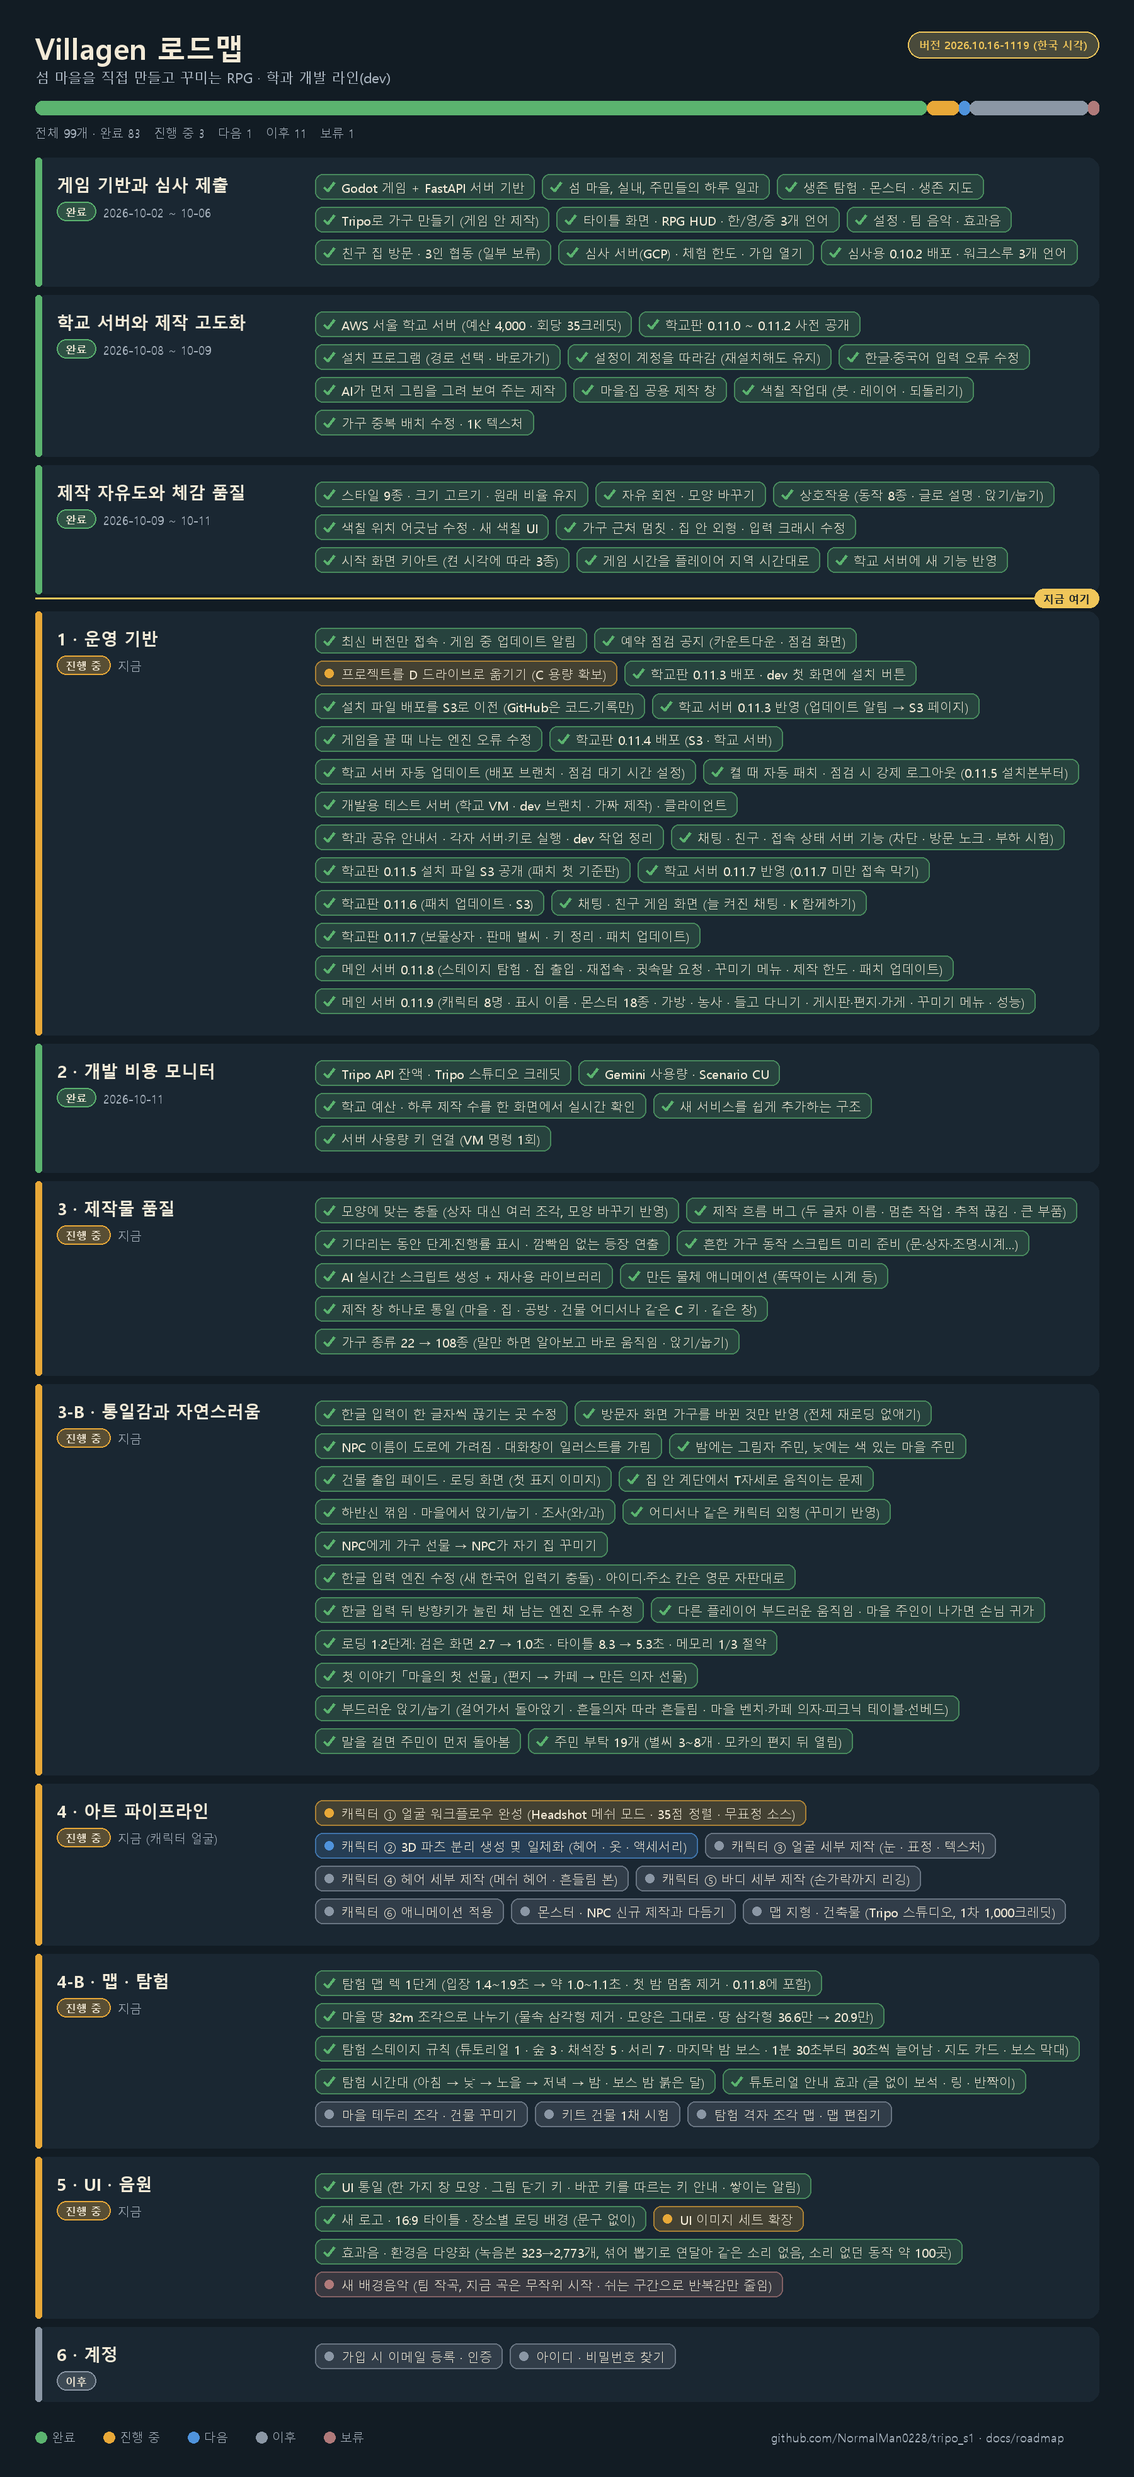
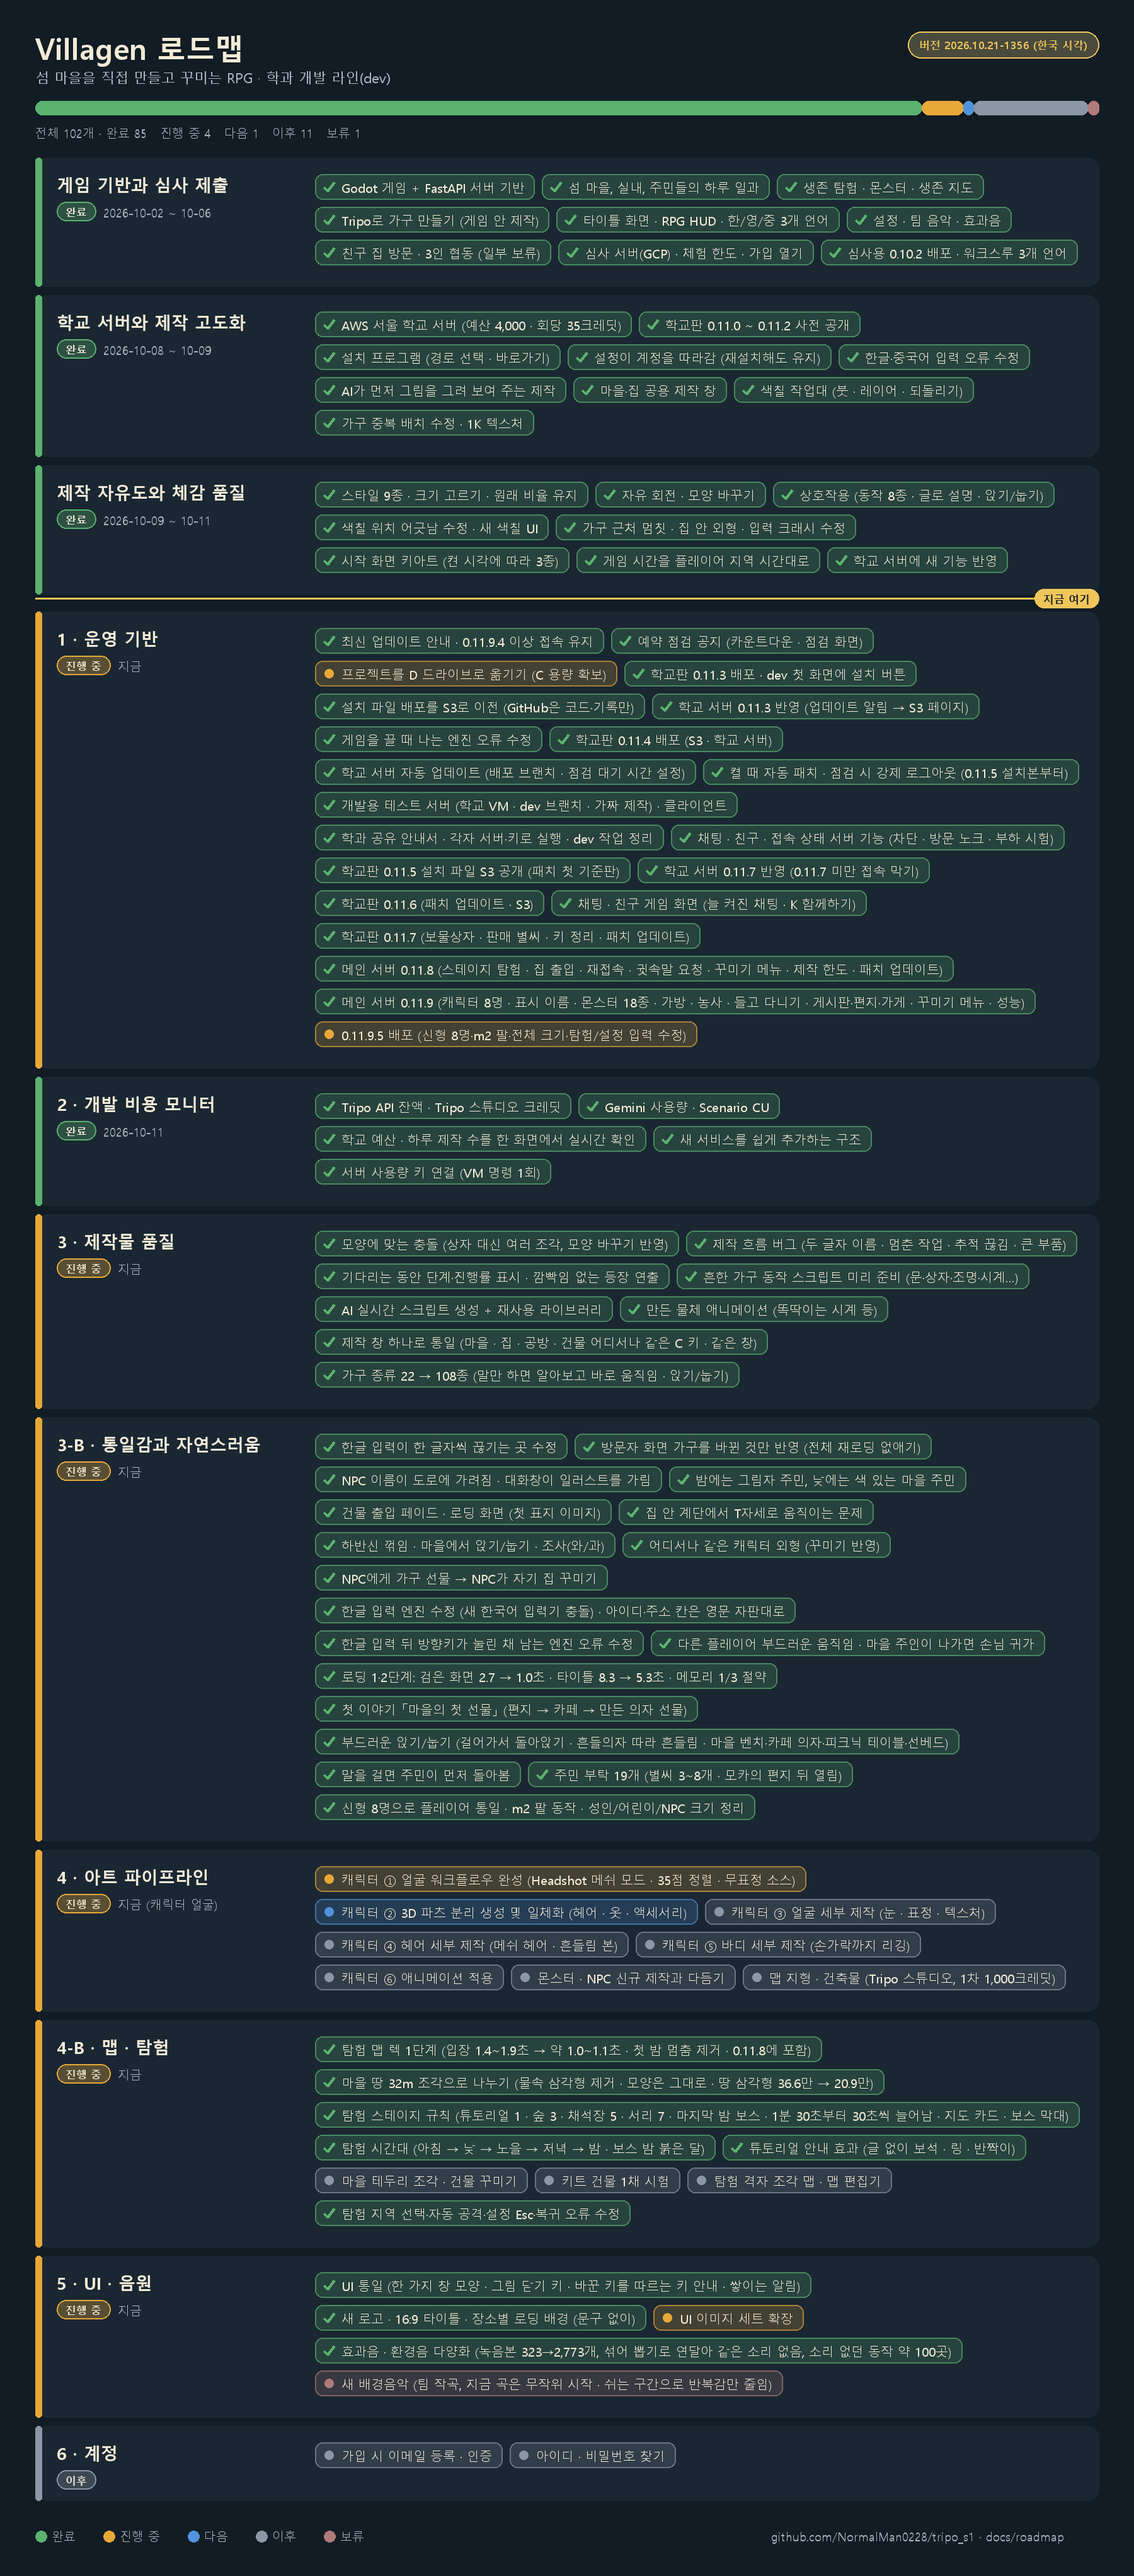
Prepare public 0.11.9.5 release notes and roadmap

diff --git a/docs/roadmap/ROADMAP_KO.md b/docs/roadmap/ROADMAP_KO.md
@@ -1,8 +1,8 @@
 # Villagen 로드맵
 
-**버전 2026.10.16-1119** (한국 시각) · 섬 마을을 직접 만들고 꾸미는 RPG · 학과 개발 라인(dev)
+**버전 2026.10.21-1356** (한국 시각) · 섬 마을을 직접 만들고 꾸미는 RPG · 학과 개발 라인(dev)
 
-> 그림으로 보기: [VISUAL_KO.md](VISUAL_KO.md) · 전체 99개 중 완료 83 · 진행 중 3 · 다음 1 · 이후 11 · 보류 1
+> 그림으로 보기: [VISUAL_KO.md](VISUAL_KO.md) · 전체 102개 중 완료 85 · 진행 중 4 · 다음 1 · 이후 11 · 보류 1
 
 - [학교 서버 운영 안내](../SCHOOL_SERVER_KO.txt)
 - [제작 품질표](../CRAFT_QUALITY_KO.md)
@@ -44,7 +44,7 @@
 
 ## 1 · 운영 기반  `진행 중` · 지금
 
-- [x] 최신 버전만 접속 · 게임 중 업데이트 알림 (10-11)
+- [x] 최신 업데이트 안내 · 0.11.9.4 이상 접속 유지 (10-11)
 - [x] 예약 점검 공지 (카운트다운 · 점검 화면) (10-11)
 - [ ] 프로젝트를 D 드라이브로 옮기기 (C 용량 확보) · *진행 중*
 - [x] 학교판 0.11.3 배포 · dev 첫 화면에 설치 버튼 (10-12)
@@ -64,6 +64,7 @@
 - [x] 학교판 0.11.7 (보물상자 · 판매 별씨 · 키 정리 · 패치 업데이트) (10-15)
 - [x] 메인 서버 0.11.8 (스테이지 탐험 · 집 출입 · 재접속 · 귓속말 요청 · 꾸미기 메뉴 · 제작 한도 · 패치 업데이트) (10-16)
 - [x] 메인 서버 0.11.9 (캐릭터 8명 · 표시 이름 · 몬스터 18종 · 가방 · 농사 · 들고 다니기 · 게시판·편지·가게 · 꾸미기 메뉴 · 성능) (10-16)
+- [ ] 0.11.9.5 배포 (신형 8명·m2 팔·전체 크기·탐험/설정 입력 수정) (10-21) · *진행 중*
 
 ## 2 · 개발 비용 모니터  `완료` · 2026-10-11
 
@@ -103,6 +104,7 @@
 - [x] 부드러운 앉기/눕기 (걸어가서 돌아앉기 · 흔들의자 따라 흔들림 · 마을 벤치·카페 의자·피크닉 테이블·선베드) (10-15)
 - [x] 말을 걸면 주민이 먼저 돌아봄 (10-15)
 - [x] 주민 부탁 19개 (별씨 3~8개 · 모카의 편지 뒤 열림) (10-15)
+- [x] 신형 8명으로 플레이어 통일 · m2 팔 동작 · 성인/어린이/NPC 크기 정리 (10-21)
 
 ## 4 · 아트 파이프라인  `진행 중` · 지금 (캐릭터 얼굴)
 
@@ -125,6 +127,7 @@
 - [ ] 마을 테두리 조각 · 건물 꾸미기 · *이후*
 - [ ] 키트 건물 1채 시험 · *이후*
 - [ ] 탐험 격자 조각 맵 · 맵 편집기 · *이후*
+- [x] 탐험 지역 선택·자동 공격·설정 Esc·복귀 오류 수정 (10-21)
 
 ## 5 · UI · 음원  `진행 중` · 지금
 
@@ -143,6 +146,7 @@
 
 | 버전 (한국 시각) | 바뀐 점 |
 |---|---|
+| 2026.10.21-1356 | 0.11.9.5 배포 준비: 신형 8명·m2 팔·크기·탐험/설정 오류 수정, 0.11.9.4 접속 유지 |
 | 2026.10.16-1119 | 메인 서버 0.11.9 반영(11:18, 최소 0.11.9): 캐릭터 8명·몬스터 18종·가방·농사·들고 다니기·게시판·리깅·모닥불 버프 |
 | 2026.10.16-0932 | 0.11.8 메인 서버 반영 완료, 0.11.9 준비(세션 15개 작업 통합) |
 | 2026.10.16-0517 | 0.11.8 준비: 15개 세션 작업 통합, 메인 서버 계약(집 출입·재접속·presence), 제작 한도 |

diff --git a/docs/roadmap/VISUAL_KO.md b/docs/roadmap/VISUAL_KO.md
@@ -1,7 +1,7 @@
 # Villagen 로드맵 (그림)
 
-**버전 2026.10.16-1119** (한국 시각) · 글로 보기: [ROADMAP_KO.md](ROADMAP_KO.md)
+**버전 2026.10.21-1356** (한국 시각) · 글로 보기: [ROADMAP_KO.md](ROADMAP_KO.md)
 
-![Villagen 로드맵 2026.10.16-1119](roadmap.png)
+![Villagen 로드맵 2026.10.21-1356](roadmap.png)
 
 초록 완료 · 주황 진행 중 · 파랑 다음 · 회색 이후 · 갈색 보류

diff --git a/docs/roadmap/README.md b/docs/roadmap/README.md
@@ -1,8 +1,8 @@
 # Villagen 로드맵
 
-**버전 2026.10.16-1119** (한국 시각)
+**버전 2026.10.21-1356** (한국 시각)
 
 - [그림으로 보기](VISUAL_KO.md)
-- [글로 보기](ROADMAP_KO.md) — 완료 83 · 진행 중 3 · 다음 1 · 이후 11
+- [글로 보기](ROADMAP_KO.md) — 완료 85 · 진행 중 4 · 다음 1 · 이후 11
 
 ![로드맵](roadmap.png)
